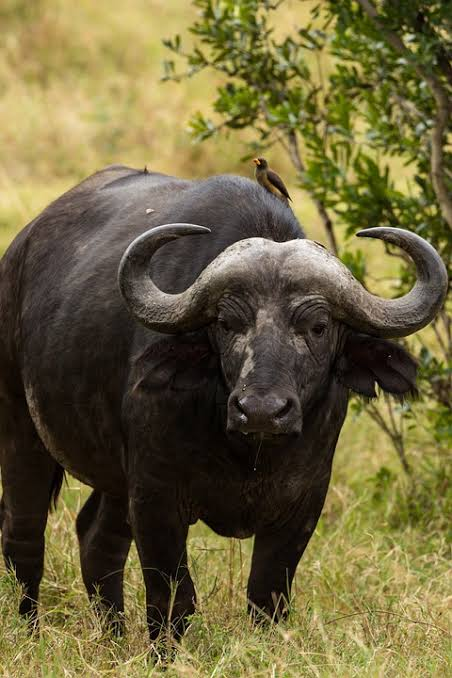
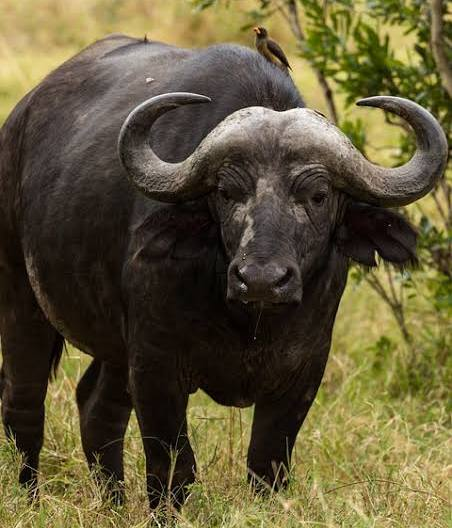
Adds the gallery section tweaks

diff --git a/gallery.html b/gallery.html
@@ -121,10 +121,88 @@
                     <h1 class="display-5 mb-0">Let`s See Our <span class="text-primary">Safari Tours</span> Album</h1>
                 </div>
                 <div class="col-lg-6 text-lg-end">
-                    <a class="btn btn-primary py-3 px-5" href="">Explore More Shots</a>
+                    <!-- <a class="btn btn-primary py-3 px-5" href="">Explore More Shots</a> -->
                 </div>
             </div>
             <div class="row g-4">
+                <div class="col-lg-4 col-md-6 wow fadeInUp" data-wow-delay="0.1s">
+                    <div class="row g-4">
+                        <div class="col-12">
+                            <a class="animal-item" href="img/animal-md-1.jpg" data-lightbox="animal">
+                                <div class="position-relative">
+                                    <img class="img-fluid" src="img/animal-md-1.jpg" alt="">
+                                    <div class="animal-text p-4">
+                                        <!-- <p class="text-white small text-uppercase mb-0">Animal</p> -->
+                                        <h5 class="text-white mb-0">Antelope</h5>
+                                    </div>
+                                </div>
+                            </a>
+                        </div>
+                        <div class="col-12">
+                            <a class="animal-item" href="img/bufallo2.jpeg" data-lightbox="animal">
+                                <div class="position-relative">
+                                    <img class="img-fluid" src="img/bufallo2.jpeg" alt="">
+                                    <div class="animal-text p-4">
+                                        <!-- <p class="text-white small text-uppercase mb-0">Animal</p> -->
+                                        <h5 class="text-white mb-0">Buffalo</h5>
+                                    </div>
+                                </div>
+                            </a>
+                        </div>
+                    </div>
+                </div>
+                <div class="col-lg-4 col-md-6 wow fadeInUp" data-wow-delay="0.3s">
+                    <div class="row g-4">
+                        <div class="col-12">
+                            <a class="animal-item" href="img/animal-lg-2.jpg" data-lightbox="animal">
+                                <div class="position-relative">
+                                    <img class="img-fluid" src="img/animal-lg-2.jpg" alt="">
+                                    <div class="animal-text p-4">
+                                        <!-- <p class="text-white small text-uppercase mb-0">Animal</p> -->
+                                        <h5 class="text-white mb-0">Wild Cat</h5>
+                                    </div>
+                                </div>
+                            </a>
+                        </div>
+                        <div class="col-12">
+                            <a class="animal-item" href="img/animal-md-2.jpg" data-lightbox="animal">
+                                <div class="position-relative">
+                                    <img class="img-fluid" src="img/animal-md-2.jpg" alt="">
+                                    <div class="animal-text p-4">
+                                        <!-- <p class="text-white small text-uppercase mb-0">Animal</p> -->
+                                        <h5 class="text-white mb-0">Zebra</h5>
+                                    </div>
+                                </div>
+                            </a>
+                        </div>
+                    </div>
+                </div>
+                <div class="col-lg-4 col-md-6 wow fadeInUp" data-wow-delay="0.5s">
+                    <div class="row g-4">
+                        <div class="col-12">
+                            <a class="animal-item" href="img/animal-md-3.jpg" data-lightbox="animal">
+                                <div class="position-relative">
+                                    <img class="img-fluid" src="img/animal-md-3.jpg" alt="">
+                                    <div class="animal-text p-4">
+                                        <!-- <p class="text-white small text-uppercase mb-0">Animal</p> -->
+                                        <h5 class="text-white mb-0">Elephant</h5>
+                                    </div>
+                                </div>
+                            </a>
+                        </div>
+                        <div class="col-12">
+                            <a class="animal-item" href="img/animal-lg-3.jpg" data-lightbox="animal">
+                                <div class="position-relative">
+                                    <img class="img-fluid" src="img/animal-lg-3.jpg" alt="">
+                                    <div class="animal-text p-4">
+                                        <!-- <p class="text-white small text-uppercase mb-0">Animal</p> -->
+                                        <h5 class="text-white mb-0">Giraffe</h5>
+                                    </div>
+                                </div>
+                            </a>
+                        </div>
+                    </div>
+                </div>
                 <div class="col-lg-4 col-md-6 wow fadeInUp" data-wow-delay="0.1s">
                     <div class="row g-4">
                         <div class="col-12">
@@ -139,12 +217,12 @@
                             </a>
                         </div>
                         <div class="col-12">
-                            <a class="animal-item" href="img/animal-lg-1.jpg" data-lightbox="animal">
+                            <a class="animal-item" href="img/bufallo2.jpeg" data-lightbox="animal">
                                 <div class="position-relative">
-                                    <img class="img-fluid" src="img/animal-lg-1.jpg" alt="">
+                                    <img class="img-fluid" src="img/bufallo2.jpeg" alt="">
                                     <div class="animal-text p-4">
                                         <!-- <p class="text-white small text-uppercase mb-0">Animal</p> -->
-                                        <h5 class="text-white mb-0">Monkey</h5>
+                                        <h5 class="text-white mb-0">Buffalo</h5>
                                     </div>
                                 </div>
                             </a>

diff --git a/css/style.css b/css/style.css
@@ -411,7 +411,7 @@
 .membership-item {
     padding: 45px 30px;
     color: #FFFFFF;
-    background: rgba(0, 0, 0, .7);
+    background: rgba(0, 0, 0, .6);
 }
 
 .membership-item img {
